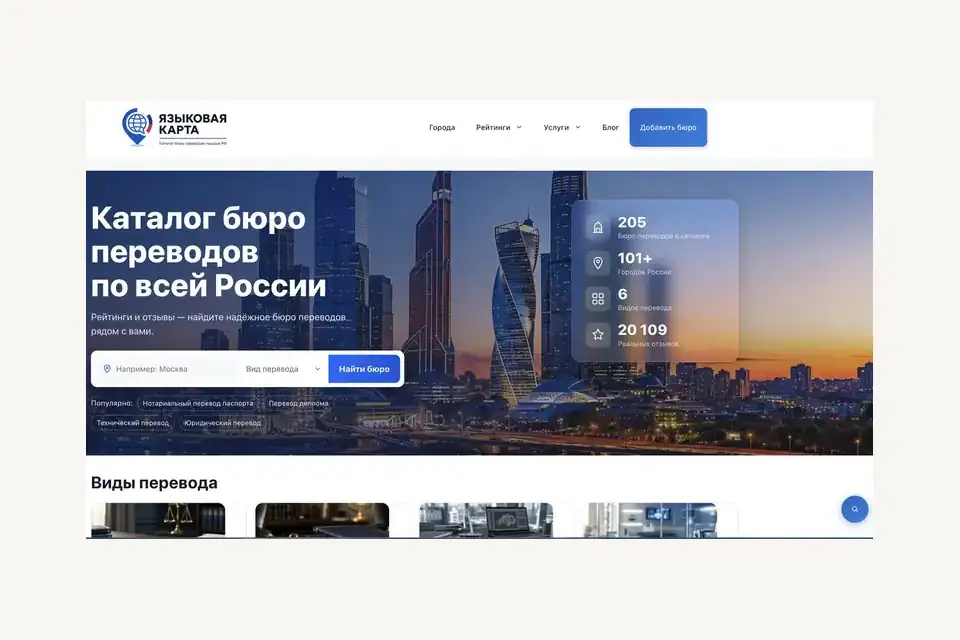
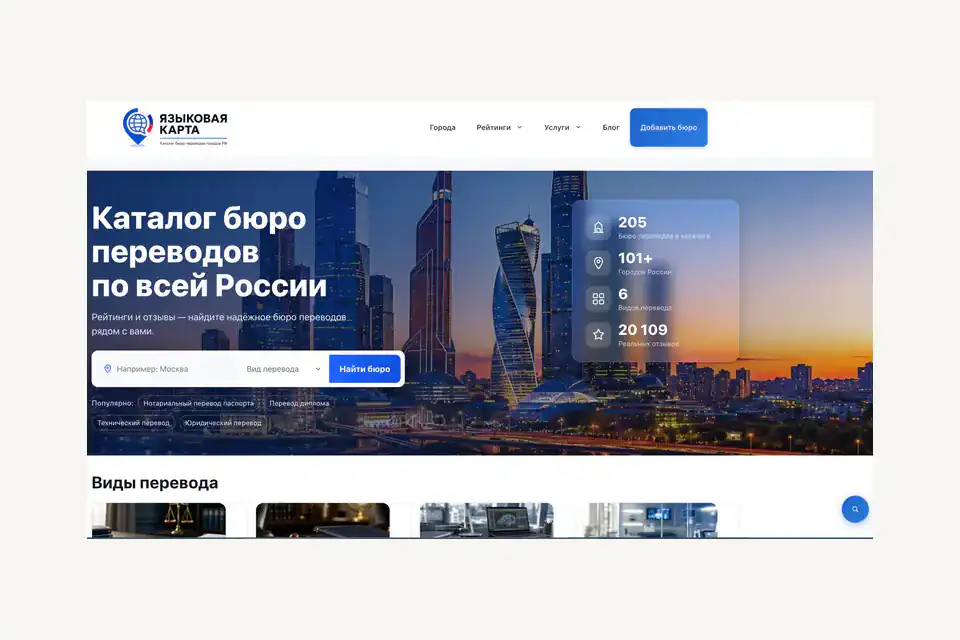
Изображения: полные кадры кейсов

diff --git a/wordpress/remarka-studio/assets/img/_chatgpt-manifest.md b/wordpress/remarka-studio/assets/img/_chatgpt-manifest.md
@@ -9,6 +9,25 @@
 | `wordpress/remarka-studio/assets/img/casi/visual-ecommerce.webp` | 1200×800 px | Главная `/`, вторая панель визуальной тройки после сетки «Servizi»; также `/servizi/`, укрупнённая карточка «E-commerce». | NEW | Абстрактный каталог и checkout; это визуал направления услуги, не клиентский кейс. Светлый фон и безопасные поля. |
 | `wordpress/remarka-studio/assets/img/casi/visual-webapp.webp` | 1200×800 px | Главная `/`, третья панель визуальной тройки; также `/servizi/`, карточка «Web app su misura» в блоке «Quando serve di più». Реальный кейс TMS не заменять. | NEW | Абстрактный интерфейс потока задач; не называть кейсом и не приписывать клиенту. Тёмный интерфейс на светлом поле, безопасные поля. |
 | `wordpress/remarka-studio/assets/img/lingue-processo-madrelingua.webp` | 1200×800 px | Главная `/`, блок «Lingue e mercati»; также `/servizi/`, визуальное сопровождение карточки «Siti multilingue». | NEW | Схема «один источник → редакторская проверка → четыре локальные версии». Без флагов, карт, языковых кодов и читаемого текста; светлый фон и безопасные поля. |
-| `wordpress/remarka-studio/assets/img/casi/servizi-techperevod.webp` | 960×640 px | `/servizi/`, новая полоса «Progetti realizzati» после «Quando serve di più», первая карточка — Techperevod. | NEW | Производный оптимизированный кадр из существующего публичного `techperevod-home-1440.jpg`; реальная работа, светлая рамка и безопасные поля. |
-| `wordpress/remarka-studio/assets/img/casi/servizi-perevod4-catalog.webp` | 960×640 px | `/servizi/`, новая полоса «Progetti realizzati» после «Quando serve di più», вторая карточка — Perevod4. | NEW | Производный оптимизированный кадр из существующего публичного `perevod4-catalog-1440.jpg`; реальная работа, светлая рамка и безопасные поля. |
-| `wordpress/remarka-studio/assets/img/casi/servizi-tms.webp` | 960×640 px | `/servizi/`, новая полоса «Progetti realizzati» после «Quando serve di più», третья карточка — TMS. | NEW | Производный оптимизированный кадр из существующего публичного `tms-board-1440.jpg`; реальная работа, светлая рамка и безопасные поля. |
+| `wordpress/remarka-studio/assets/img/casi/servizi-techperevod.webp` | 960×640 px | `/servizi/`, новая полоса «Progetti realizzati» после «Quando serve di più», первая карточка — Techperevod. | NEW | Производный оптимизированный кадр из предоставленного PNG Techperevod; весь исходный экран сохранён в светлой рамке, без кадрирования. |
+| `wordpress/remarka-studio/assets/img/casi/servizi-perevod4-catalog.webp` | 960×640 px | `/servizi/`, новая полоса «Progetti realizzati» после «Quando serve di più», вторая карточка — Perevod4. | NEW | Производный оптимизированный кадр из предоставленного PNG Perevod4; весь исходный экран сохранён в светлой рамке, без кадрирования. |
+| `wordpress/remarka-studio/assets/img/casi/servizi-tms.webp` | 960×640 px | `/servizi/`, новая полоса «Progetti realizzati» после «Quando serve di più», третья карточка — TMS. | NEW | Производный оптимизированный кадр из предоставленного PNG TMS; весь исходный экран сохранён в светлой рамке, без кадрирования. |
+
+## Полные кадры кейсов из предоставленных исходников
+
+| Файл | Размер | Куда подключить | Замена или новое | Примечания |
+|---|---:|---|---|---|
+| `wordpress/remarka-studio/assets/img/casi/1russian-home-1440.webp` | 1440×689 px | `/casi-studio/`, карточка и полная страница кейса 1Russian. | NEW | Полный desktop-кадр из предоставленного PNG; использовать вместо одноимённого JPG после обновления кода, без `object-fit: cover`. |
+| `wordpress/remarka-studio/assets/img/casi/ai-home-it-1440.webp` | 1440×1026 px | `/casi-studio/`, карточка и полная страница кейса AI Home IT. | NEW | Полный desktop-кадр из предоставленного PNG; не кадрировать. |
+| `wordpress/remarka-studio/assets/img/casi/att-home-1440.webp` | 1440×1049 px | `/casi-studio/`, карточка и полная страница кейса ATT. | NEW | Полный desktop-кадр из предоставленного PNG; не кадрировать. |
+| `wordpress/remarka-studio/assets/img/casi/gioco-play-1440.webp` | 1440×719 px | `/casi-studio/`, карточка и полная страница кейса Gioco Play. | NEW | Полный desktop-кадр из предоставленного PNG; не кадрировать. |
+| `wordpress/remarka-studio/assets/img/casi/miniapp-orders-390.webp` | 390×844 px | `/casi-studio/`, mobile-источник в `<picture>` для кейса Miniapp Orders. | NEW | Полный mobile-кадр из предоставленного PNG; подключать на mobile вместо desktop-кадра, без кадрирования. |
+| `wordpress/remarka-studio/assets/img/casi/moscowtrans-home-1440.webp` | 1440×697 px | `/casi-studio/`, карточка и полная страница кейса Moscowtrans. | NEW | Полный desktop-кадр из предоставленного PNG; не кадрировать. |
+| `wordpress/remarka-studio/assets/img/casi/pererf-home-1440.webp` | 1440×700 px | `/casi-studio/`, карточка и полная страница кейса пере.рф. | NEW | Полный desktop-кадр из предоставленного PNG; не кадрировать. |
+| `wordpress/remarka-studio/assets/img/casi/perevod4-catalog-1440.webp` | 1440×802 px | `/casi-studio/`, карточка и полная страница кейса Perevod4. | NEW | Полный desktop-кадр из предоставленного PNG; не кадрировать. |
+| `wordpress/remarka-studio/assets/img/casi/techperevod-home-1440.webp` | 1440×717 px | `/casi-studio/`, карточка и полная страница кейса Techperevod. | NEW | Полный desktop-кадр из предоставленного PNG; не кадрировать. |
+| `wordpress/remarka-studio/assets/img/casi/tester-exam-1440.webp` | 1440×694 px | `/casi-studio/`, карточка и полная страница кейса Tester Exam. | NEW | Полный desktop-кадр из предоставленного PNG; не кадрировать. |
+| `wordpress/remarka-studio/assets/img/casi/tms-board-1440.webp` | 1440×706 px | `/casi-studio/` и главная `/`, кейс TMS: бэклог/заказы. | NEW | Полный desktop-кадр из предоставленного PNG; не кадрировать. |
+| `wordpress/remarka-studio/assets/img/casi/tms-clienti-1440.webp` | 1440×712 px | `/casi-studio/`, кейс TMS: экран клиентов. | NEW | Полный desktop-кадр из предоставленного PNG; не кадрировать. |
+| `wordpress/remarka-studio/assets/img/casi/tms-fatture-1440.webp` | 1440×810 px | `/casi-studio/`, кейс TMS: экран счетов и платежей. | NEW | Полный desktop-кадр из предоставленного PNG; не кадрировать. |
+| `wordpress/remarka-studio/assets/img/casi/ukrinitsy-mobile-390.webp` | 390×844 px | `/casi-studio/`, mobile-источник в `<picture>` для кейса Ukrinitsy. | NEW | Полный mobile-кадр из предоставленного PNG; подключать на mobile без кадрирования. |